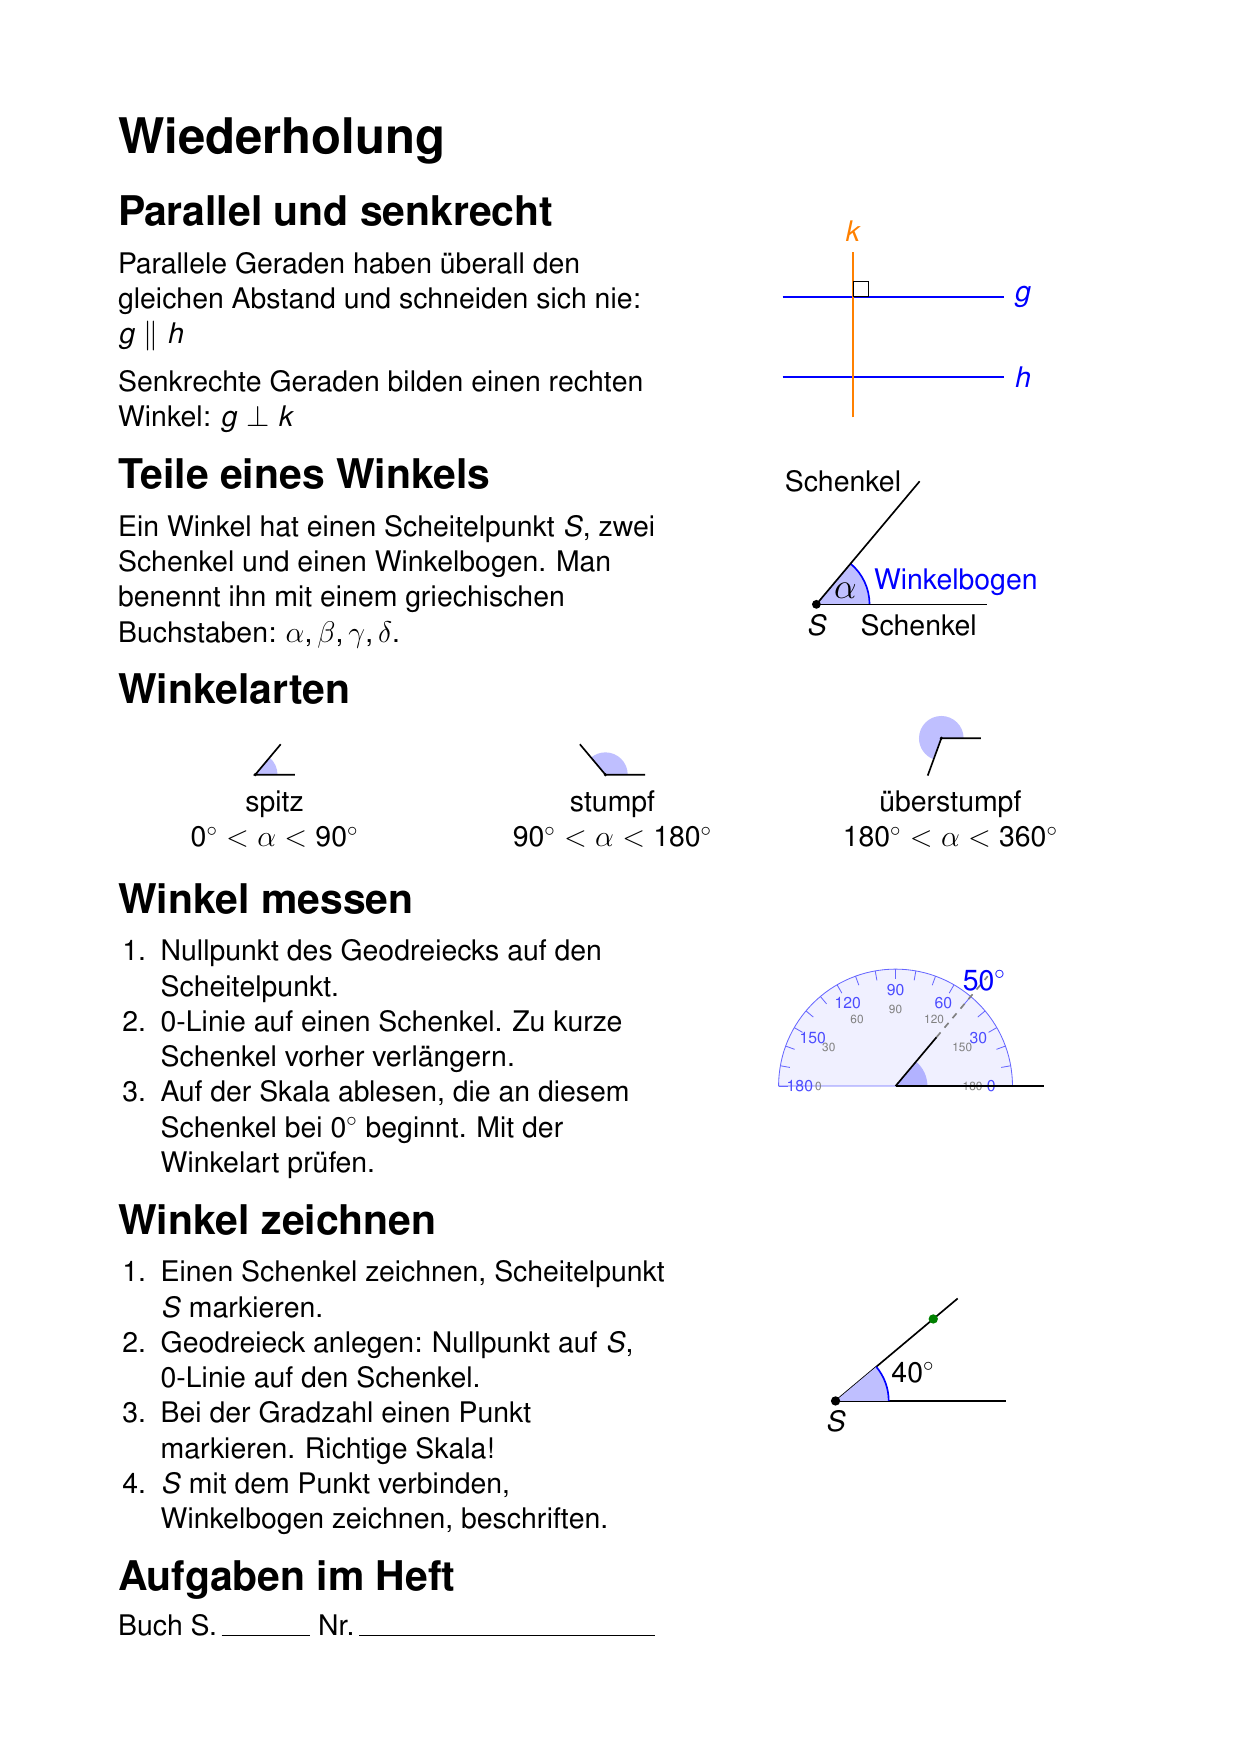
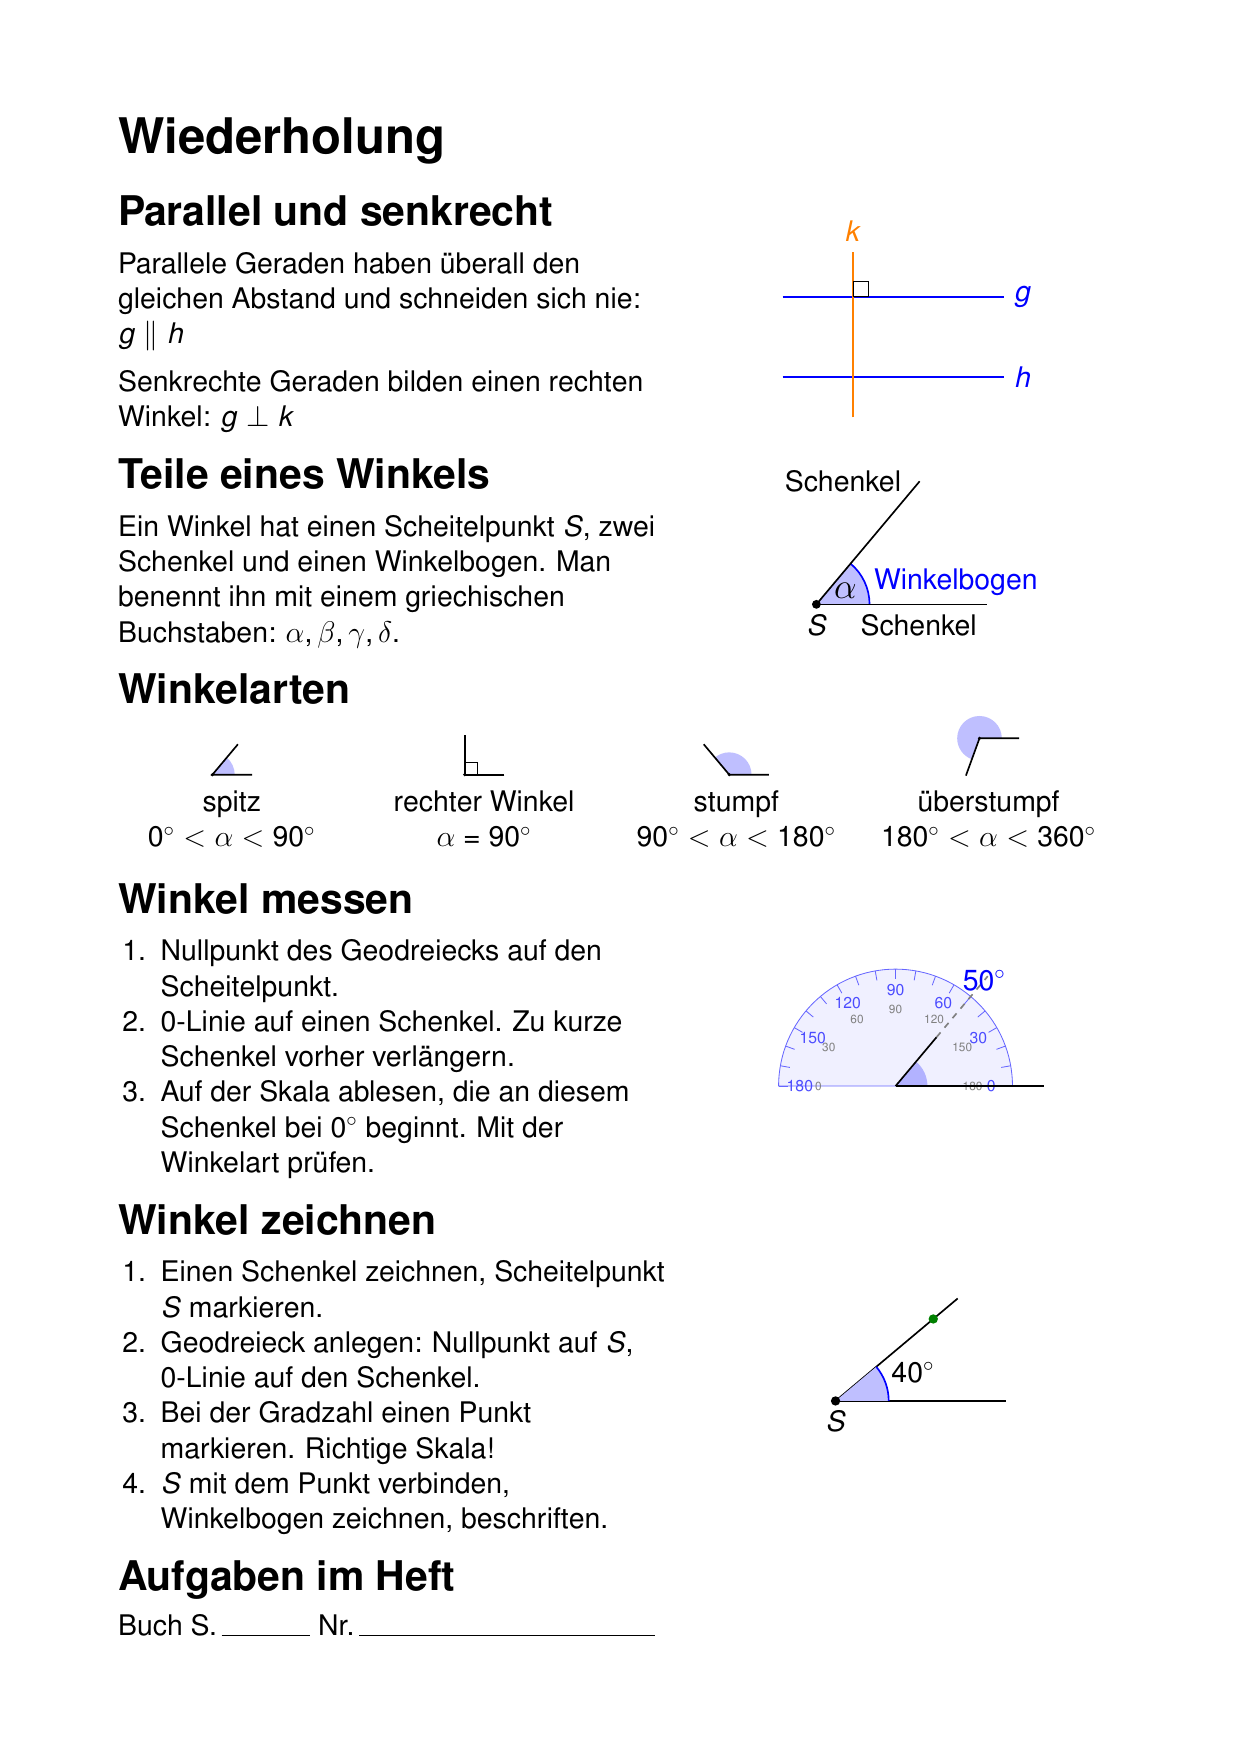
Wiederholung: rechter Winkel bei den Winkelarten ergänzt, auch im Arbeitsblatt
Claude-Session: https://claude.ai/code/session_014D9hKT6ZNfurDZqoqa9agL

Changed region(s): [[0.643, 0.4002, 0.888, 0.4926], [0.3368, 0.431, 0.6124, 0.4926], [0.1531, 0.431, 0.2756, 0.4926]]

diff --git a/wiederholung.html b/wiederholung.html
@@ -235,14 +235,14 @@ function laptopFig(show) {
 const laptopDrag = w => { lw = clamp(Math.round(w), 40, 170); };
 
 // ---------- Winkelarten ----------
-const KINDS = [[50, '0° < α < 90°', 'spitz'], [130, '90° < α < 180°', 'stumpf'], [250, '180° < α < 360°', 'überstumpf']];
+const KINDS = [[50, '0° < α < 90°', 'spitz'], [90, 'α = 90°', 'rechter Winkel'], [130, '90° < α < 180°', 'stumpf'], [250, '180° < α < 360°', 'überstumpf']];
 function kindsFig(show) {
   let s = '';
   KINDS.forEach(([a, r, n], i) => {
-    const cx = 140 + i * 260, V = P(cx - (a > 180 ? 10 : 55), 260);
-    s += wedge(V, 0, a, 62, 'c1') + ray(V, 0, 150) + ray(V, a, a > 180 ? 125 : 150) + dot(V, 7);
-    s += text(P(cx, 430), r, 'tm');
-    if (show) s += text(P(cx, 90), n, 'tx');
+    const cx = 100 + i * 200, V = P(cx - (a > 180 ? 30 : a > 90 ? 20 : 50), 260);
+    s += (a === 90 ? rmark(V, 0, 34) : wedge(V, 0, a, 52, 'c1')) + ray(V, 0, 110) + ray(V, a, a > 180 ? 100 : 110) + dot(V, 7);
+    s += text(P(cx, 430), r, 'tn');
+    if (show) s += text(P(cx, 100), n, 'tm');
   });
   return s;
 }
@@ -284,7 +284,7 @@ const STEPS = [
   { t: 'Teile eines Winkels', rv: 1, c: LS, enter: () => { lw = 110; }, drag: laptopDrag, fig: () => laptopFig(shown),
     txt: () => shown ? 'Jeder Winkel hat einen Scheitelpunkt, zwei Schenkel und einen Winkelbogen.' : 'Klappst du einen Laptop auf, entsteht ein Winkel α. Wie heißen seine Teile?',
     eq: () => shown ? `α = ${lw}°` : '' },
-  { t: 'Winkelarten', rv: 1, fig: () => kindsFig(shown), txt: () => shown ? 'Die Grenzen sind 90° und 180°.' : 'Wie heißen diese Winkelarten?' },
+  { t: 'Winkelarten', rv: 1, fig: () => kindsFig(shown), txt: () => shown ? 'Genau 90° ist ein rechter Winkel. Die Grenzen sind 90° und 180°.' : 'Wie heißen diese Winkelarten?' },
   { t: 'Winkel messen', rv: 1, fig: () => measureFig(shown),
     txt: () => shown ? 'Lies auf der Skala ab, die an deinem ersten Schenkel bei 0° beginnt.' : 'Nullpunkt auf den Scheitelpunkt, 0-Linie auf einen Schenkel, kurzen Schenkel verlängern. Welche Zahl stimmt?',
     eq: () => shown ? `α = ${MA}°, denn der Winkel ist spitz.` : '' },

diff --git a/index.html b/index.html
@@ -43,7 +43,7 @@ html.fs #fs .fo{display:inline}
 <section><h2>Mittelsenkrechte und Winkelhalbierende</h2><div class="row"><a class="go" href="mittelsenkrechte-winkelhalbierende.html">Einführung</a><a href="ab.html?n=ab-mittelsenkrechte-winkelhalbierende">Arbeitsblatt</a></div></section>
 <section><h2>Umkreis und Inkreis</h2><div class="row"><a class="go" href="umkreis-inkreis.html">Einführung</a><a href="ab.html?n=ab-umkreis-inkreis">Arbeitsblatt</a></div></section>
 <section><h2>Dreiecke konstruieren: SSS, SWS, WSW</h2><div class="row"><a class="go" href="dreiecke-konstruieren.html">Einführung</a><a href="ab.html?n=ab-dreiecke-konstruieren">Arbeitsblatt</a></div></section>
-<div class="fassung"><span>Fassung <span id="stand">13.11.2026 21:44</span></span><button id="aktualisieren" type="button">Neueste Fassung laden</button><span id="fassung-status"></span></div>
+<div class="fassung"><span>Fassung <span id="stand">13.11.2026 21:46</span></span><button id="aktualisieren" type="button">Neueste Fassung laden</button><span id="fassung-status"></span></div>
 <script>
 // Vollbild: Knopf oder Taste F. Nach einem Seitenwechsel holt der erste Tipp das Vollbild zurück.
 (() => {

diff --git a/sw.js b/sw.js
@@ -1,5 +1,5 @@
 // Eigener Cache-Präfix, damit andere Werkzeuge unter derselben Adresse unberührt bleiben.
-const CACHE = 'plenum-996a534a';
+const CACHE = 'plenum-db834adf';
 // Alles, was beim ersten Aufruf in den Speicher kommt.
 const FILES = [
   './',
